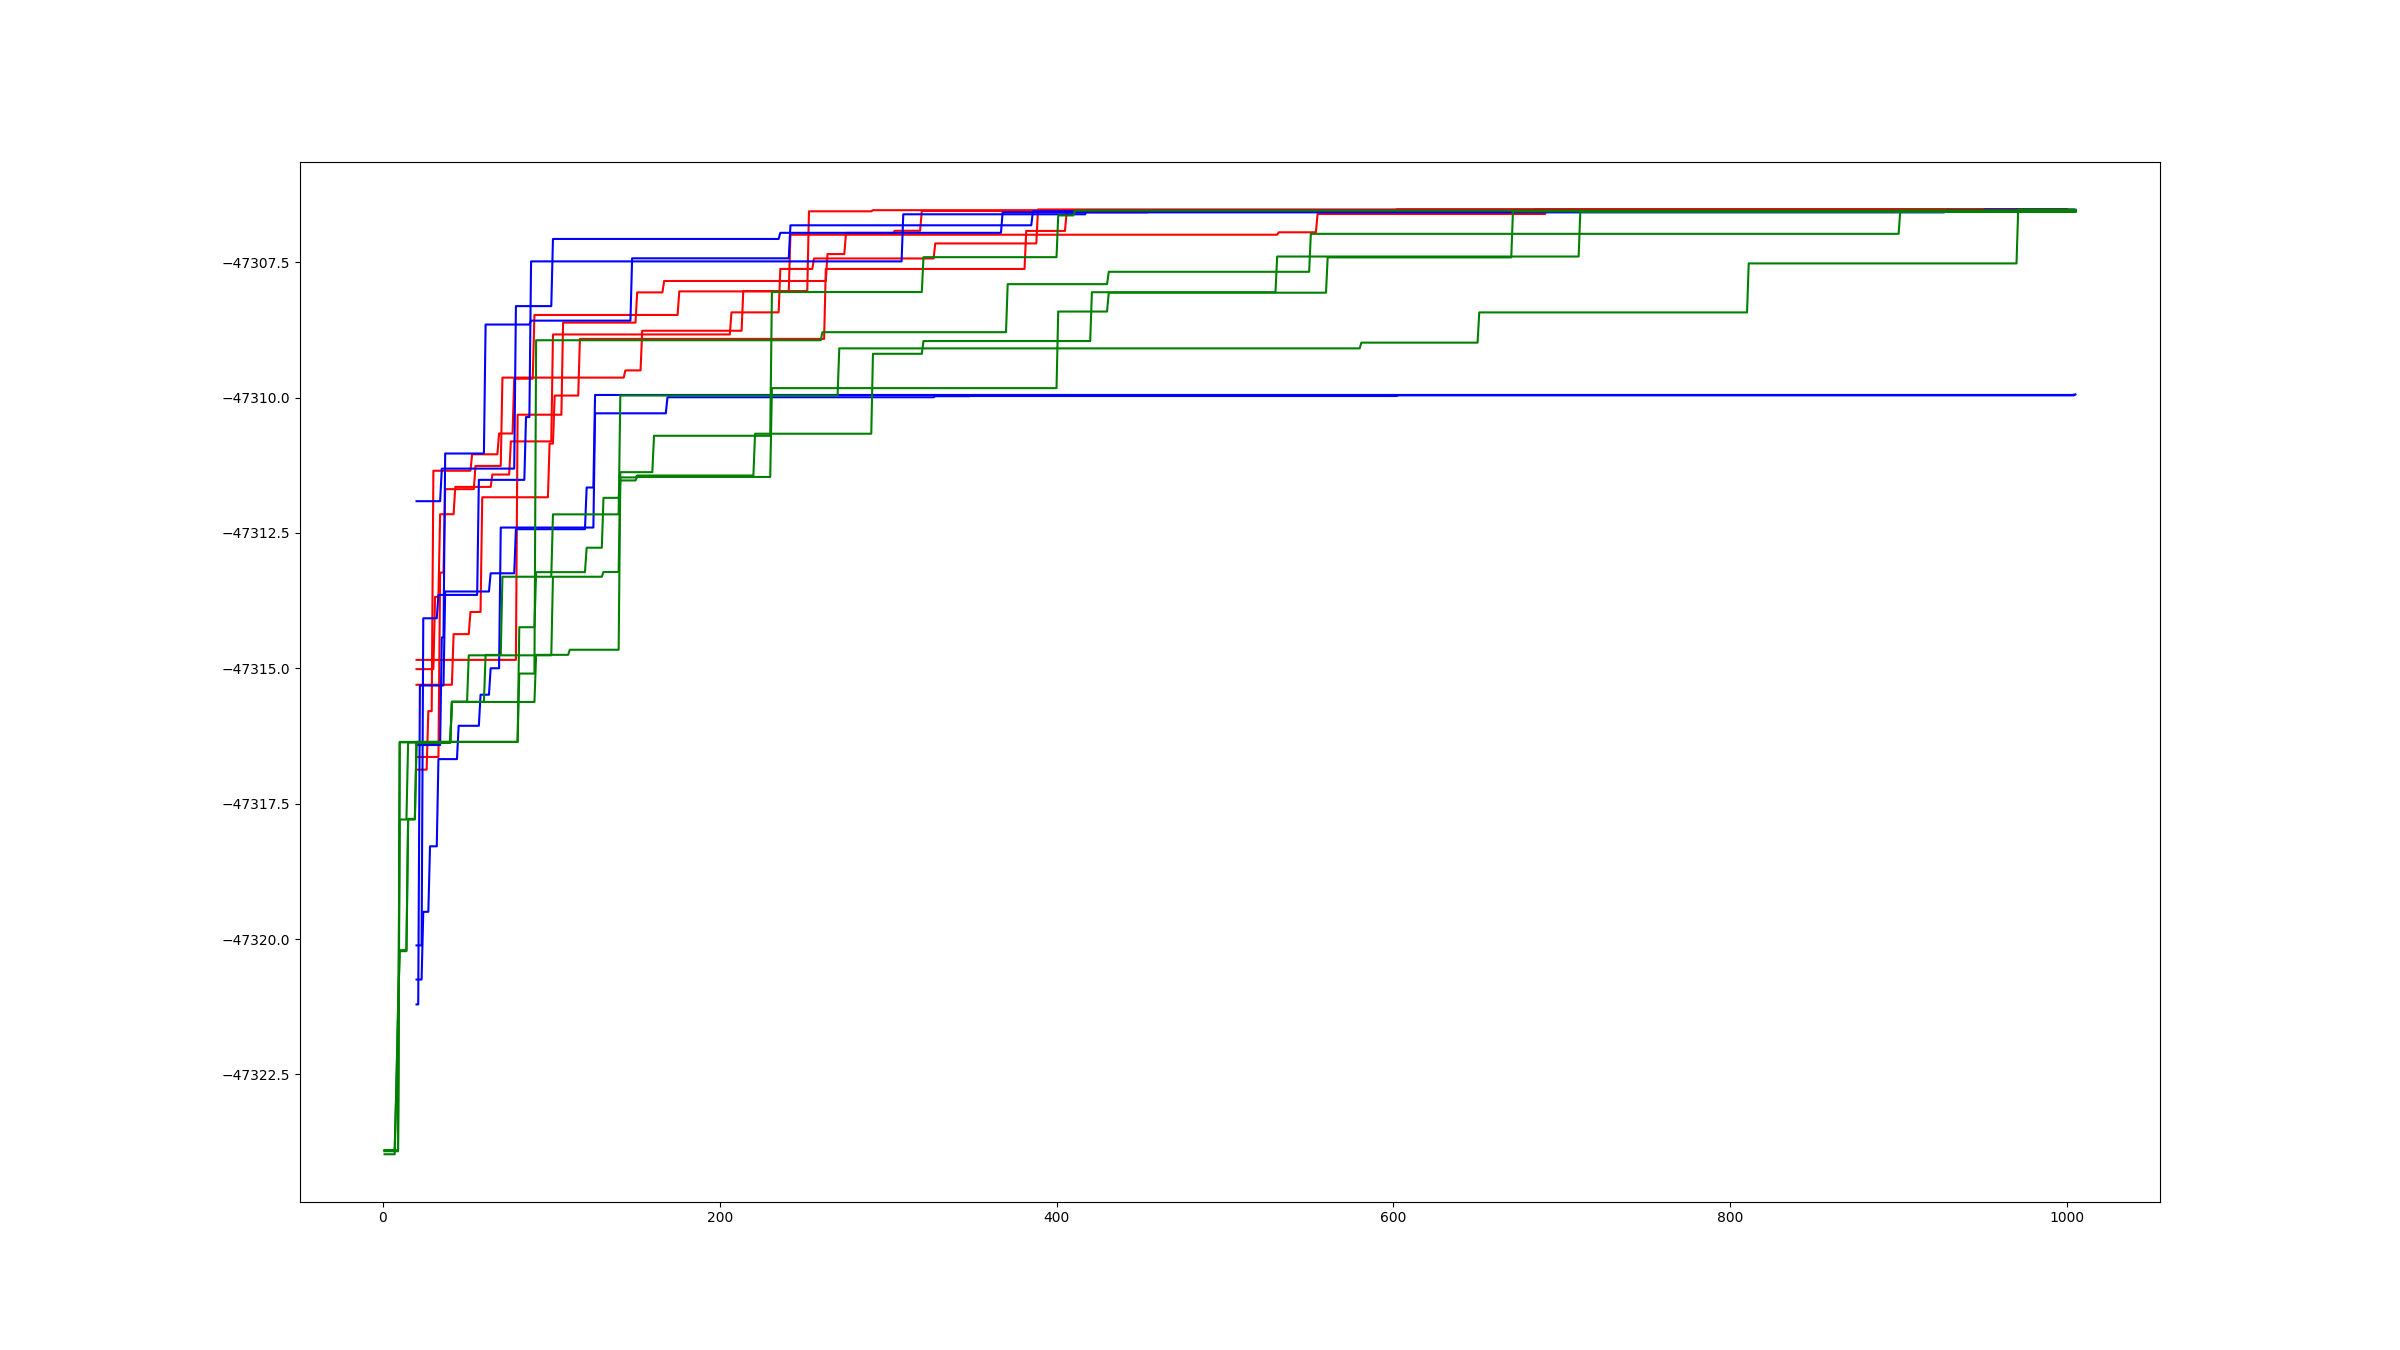
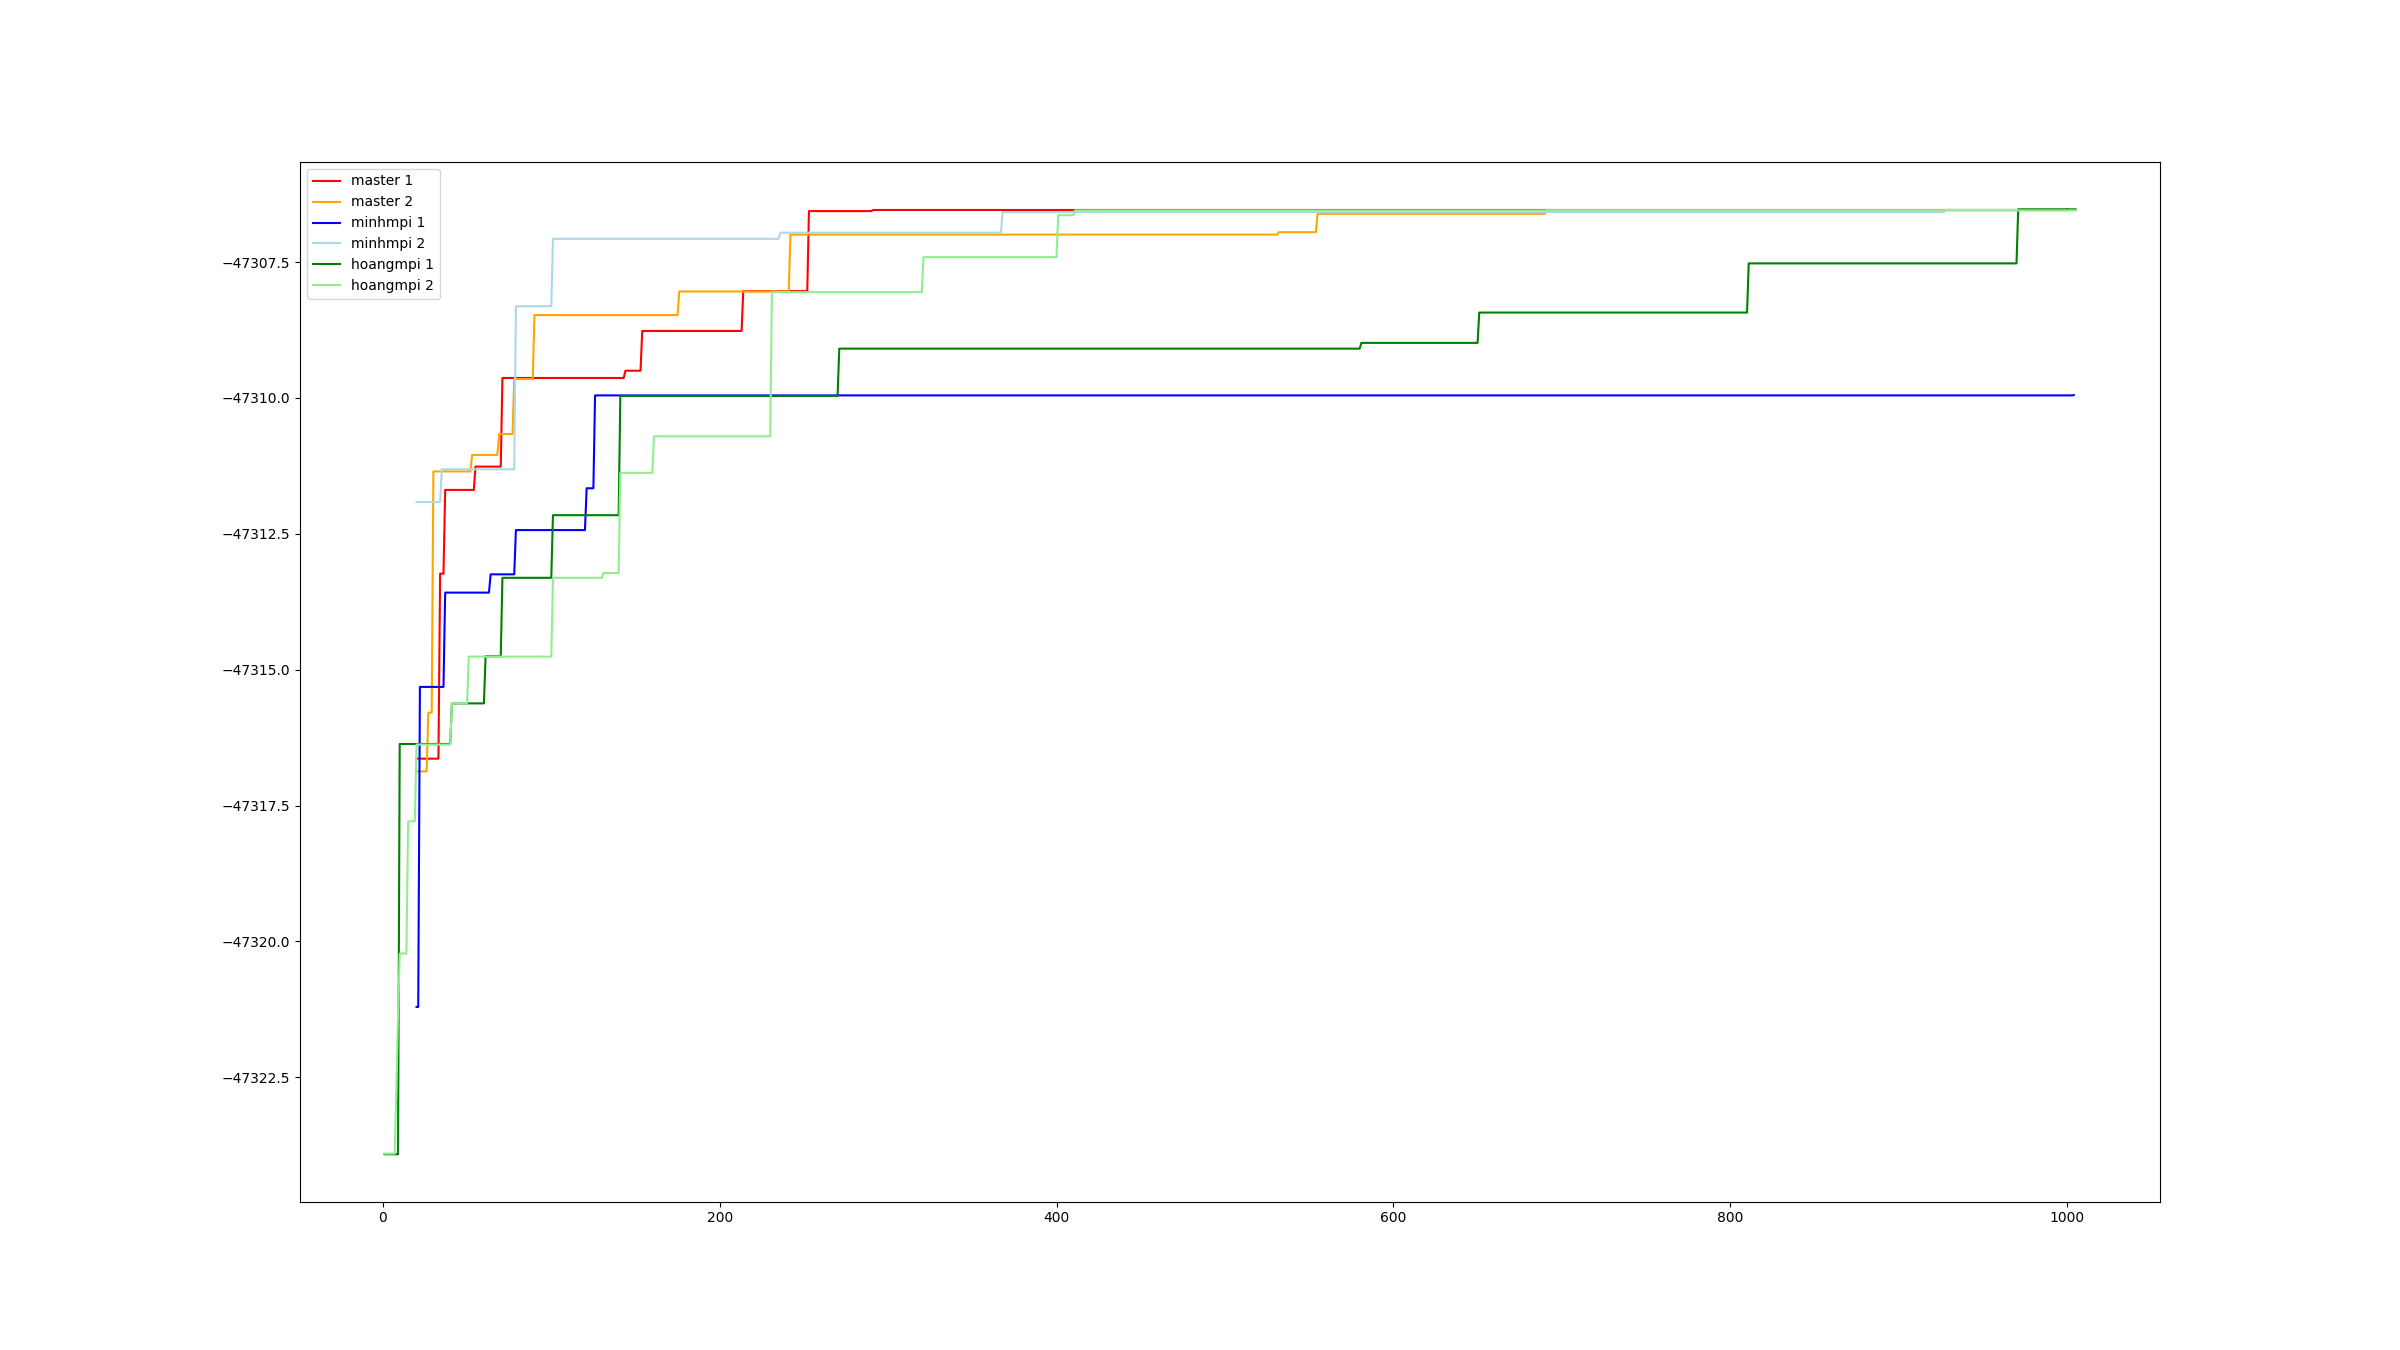
add name for lines, reduce number of lines from 15 to 6

diff --git a/iqtree.py b/iqtree.py
@@ -4,15 +4,16 @@ import sys
 
 argv = sys.argv[1]
 #masterColor = ['', 'red', 'orange', 'violet', 'pink', 'purple']
-masterColor = ['', 'red', 'red', 'red', 'red', 'red']
+masterColor = ['', 'red', 'orange', 'red', 'red', 'red']
 #mpiColor = ['', 'blue', 'green', 'black', 'brown', 'gray']
-mpiColor = ['', 'blue', 'blue', 'blue', 'blue', 'blue']
+mpiColor = ['', 'blue', 'lightblue', 'blue', 'blue', 'blue']
 
-hoangColor = ['', 'green', 'green', 'green', 'green', 'green']
+hoangColor = ['', 'green', 'lightgreen', 'green', 'green', 'green']
 
 plt.figure(figsize=(24, 13.5))
+numData = 2
 
-for suffix in range(1, 6):
+for suffix in range(1, numData + 1):
     with open("master/" + argv + "/" + argv + "_" + str(suffix) + ".data") as f:
         data = f.readlines()
         data = [x.strip() for x in data]
@@ -35,9 +36,9 @@ for suffix in range(1, 6):
             y = np.append(y, float(data[i, 1]))
 
         # Plot data
-        plt.plot(X, y, color=masterColor[suffix])
+        plt.plot(X, y, color=masterColor[suffix], label="master " + str(suffix))
 
-for suffix in range(1, 6):
+for suffix in range(1, numData + 1):
     with open("minhmpi/" + argv + '/' + argv + '_' + str(suffix) + '.data') as f:
         data = f.readlines()
         data = [x.strip() for x in data]
@@ -60,10 +61,9 @@ for suffix in range(1, 6):
             y = np.append(y, float(data[i, 1]))
 
         # Plot data
-        plt.plot(X, y, color=mpiColor[suffix])
+        plt.plot(X, y, color=mpiColor[suffix], label="minhmpi " + str(suffix))
 
-
-for suffix in range(1, 6):
+for suffix in range(1, numData + 1):
     with open("hoangmpi/" + argv + '/' + argv + '_' + str(suffix) + '.data') as f:
         data = f.readlines()
         data = [x.strip() for x in data]
@@ -86,10 +86,11 @@ for suffix in range(1, 6):
             y = np.append(y, float(data[i, 1]))
 
         # Plot data
-        plt.plot(X, y, color=hoangColor[suffix])
+        plt.plot(X, y, color=hoangColor[suffix], label="hoangmpi " + str(suffix))
 
+plt.legend()
 plt.savefig("graph/" + argv + ".png")
-# plt.show()
+plt.show()
 
 """
 Command is:
